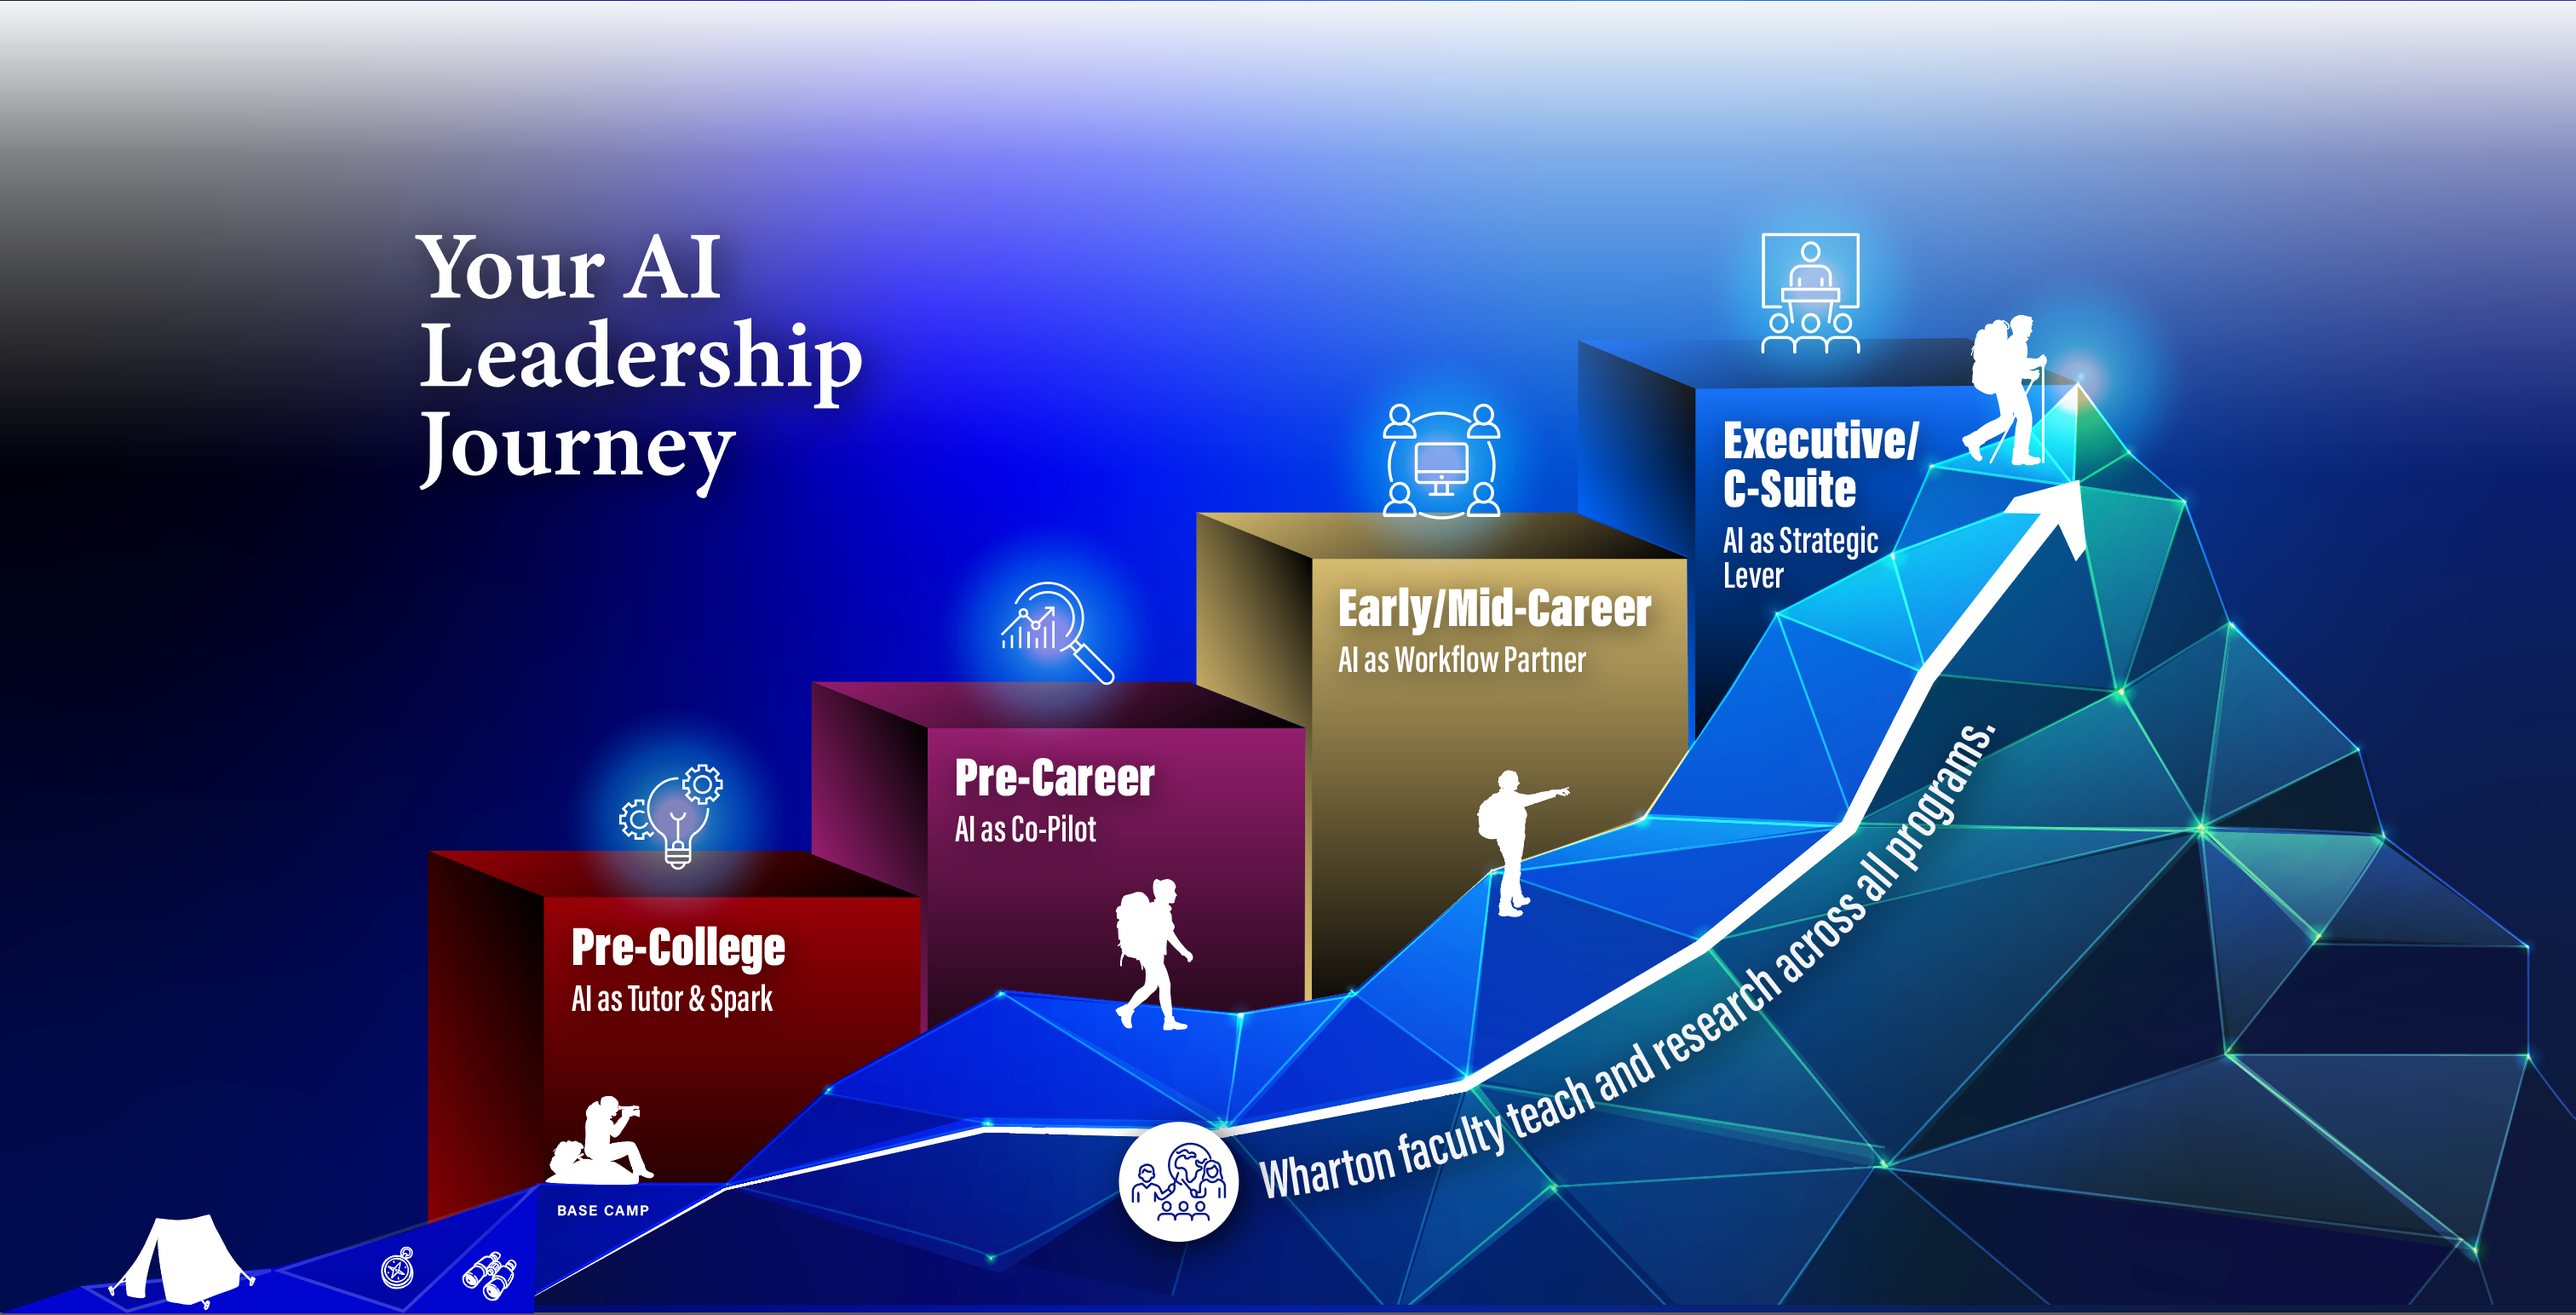
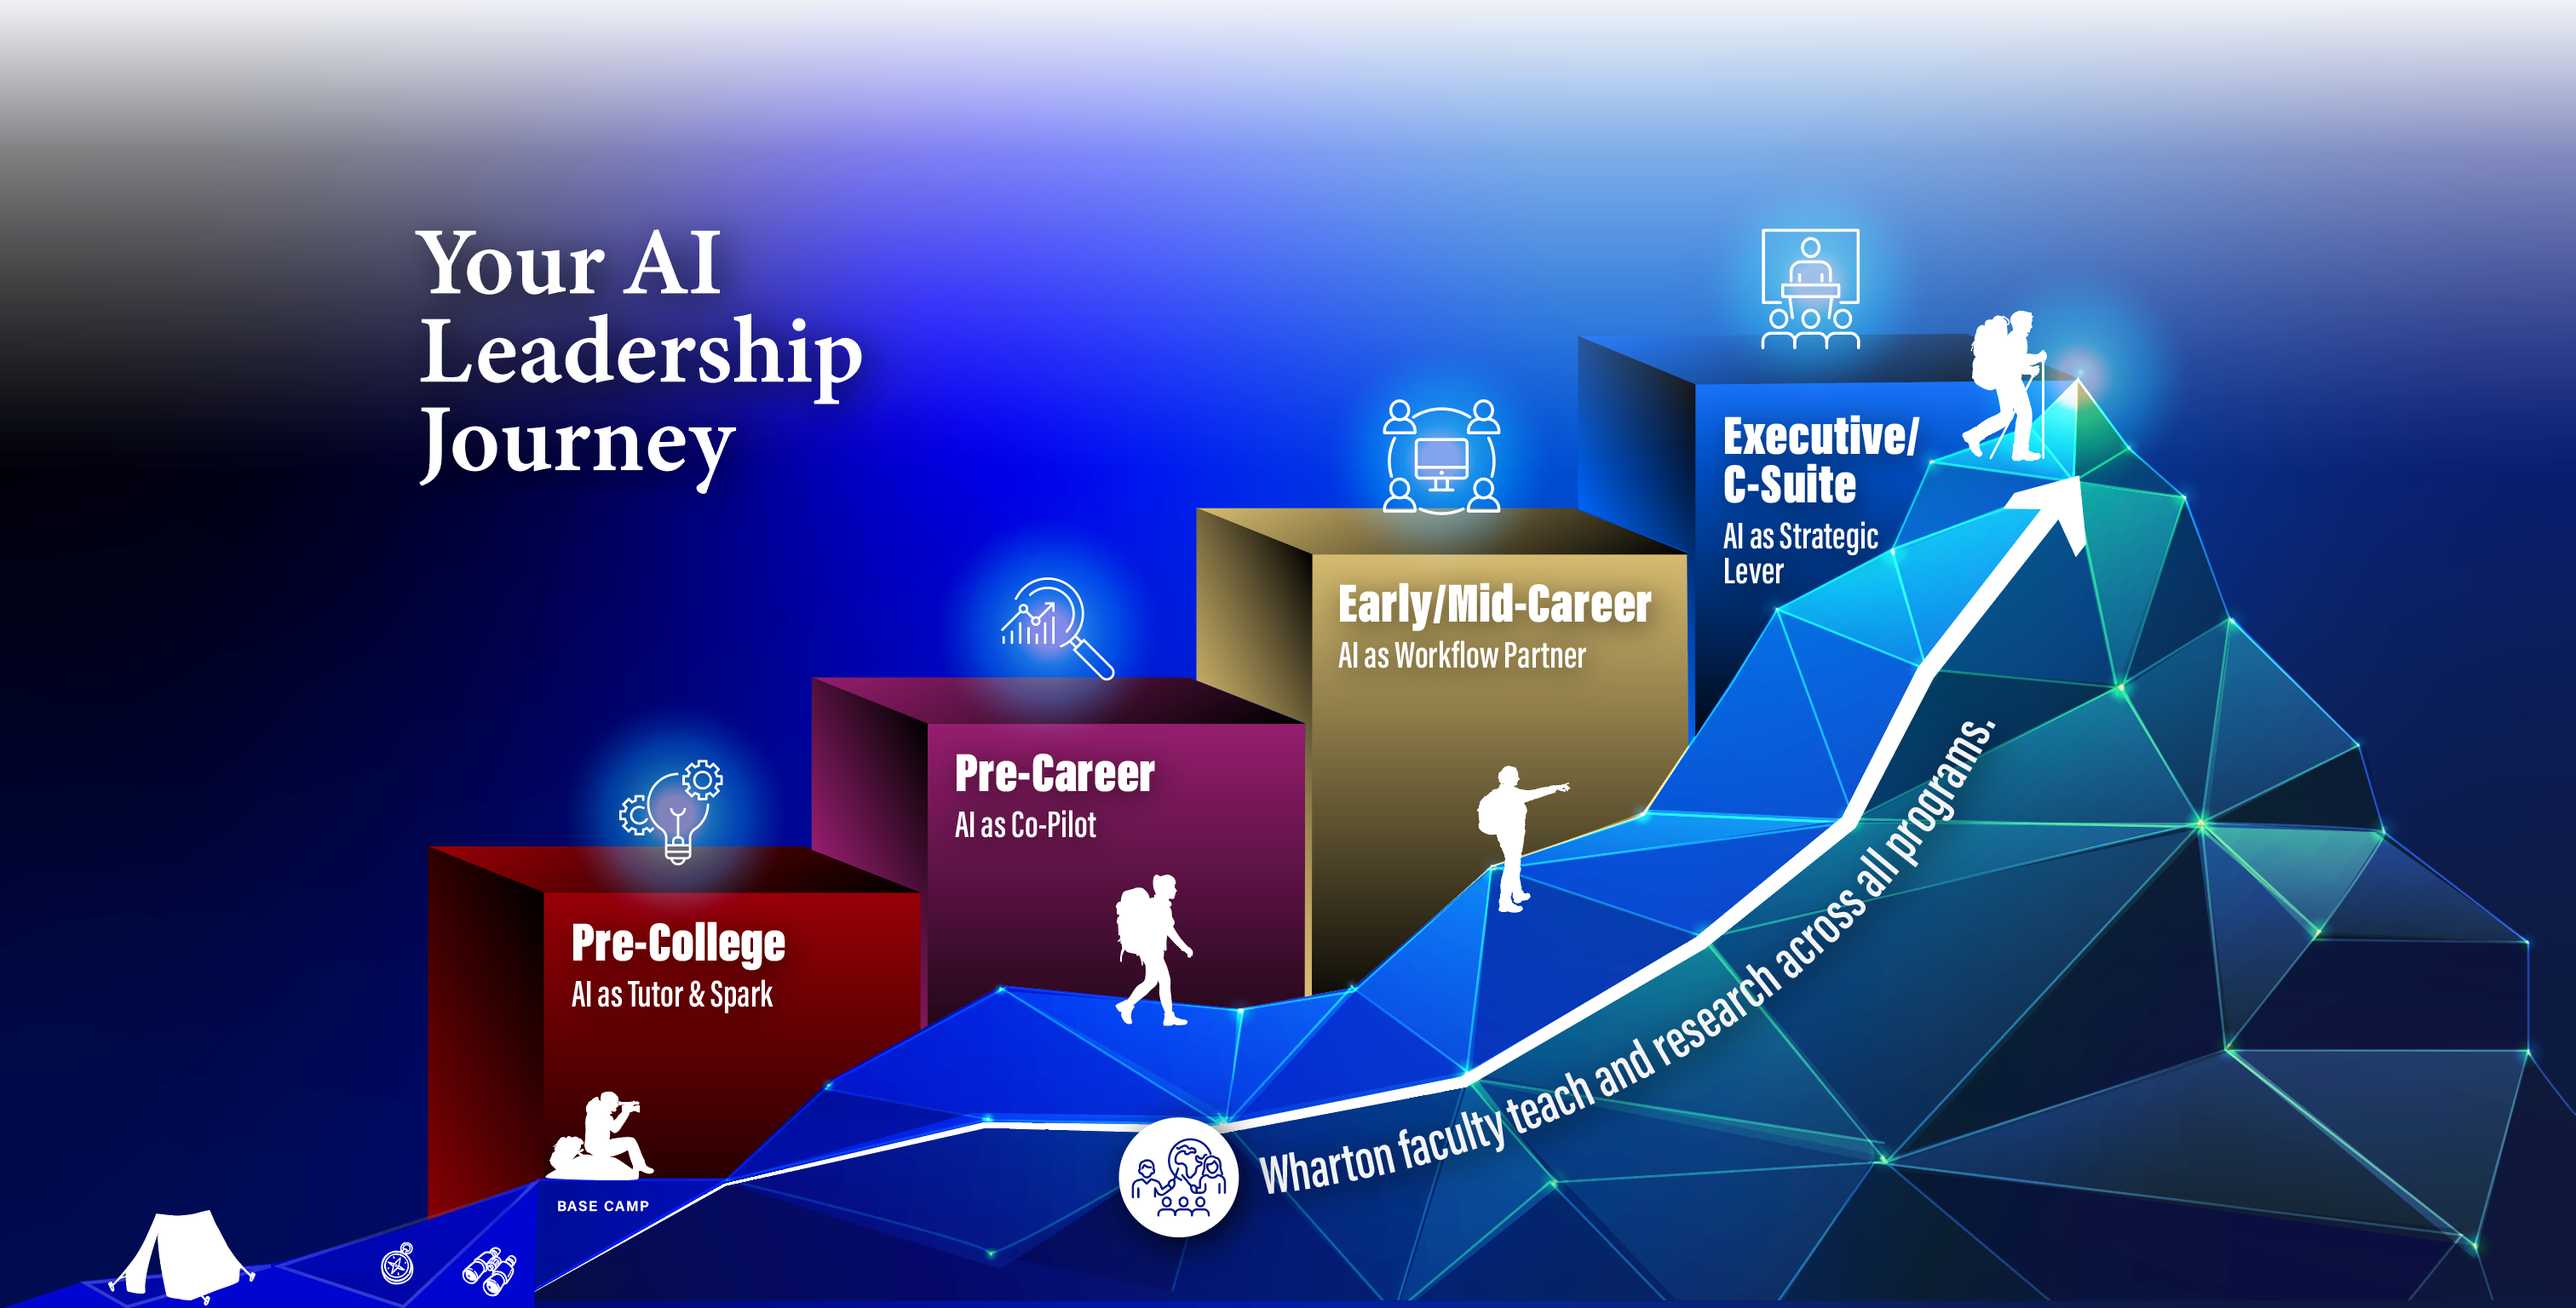
Use Mountain4 infographic without its edge artifact; recolor upskilling CTA
The export carries a 3px grey strip along its bottom edge, which rendered
as a hairline against the next section; the committed copy is trimmed.

diff --git a/src/styles/site.css b/src/styles/site.css
@@ -121,7 +121,7 @@
   #leadership-support .c-card:nth-child(2) { background: #075aa4; }
   #leadership-support .c-card:nth-child(3) { background: #004785; }
   #leadership-support .c-card__body { position: relative; align-self: end; }
-  #leadership-support .c-card__action { display: block; color: #990000; }
+  #leadership-support .c-card__action { display: block; color: #0066ff; }
 
   #research-insights { padding-block-end: var(--space-8); }
   #research-insights .u-container { max-inline-size: var(--size-content); }
